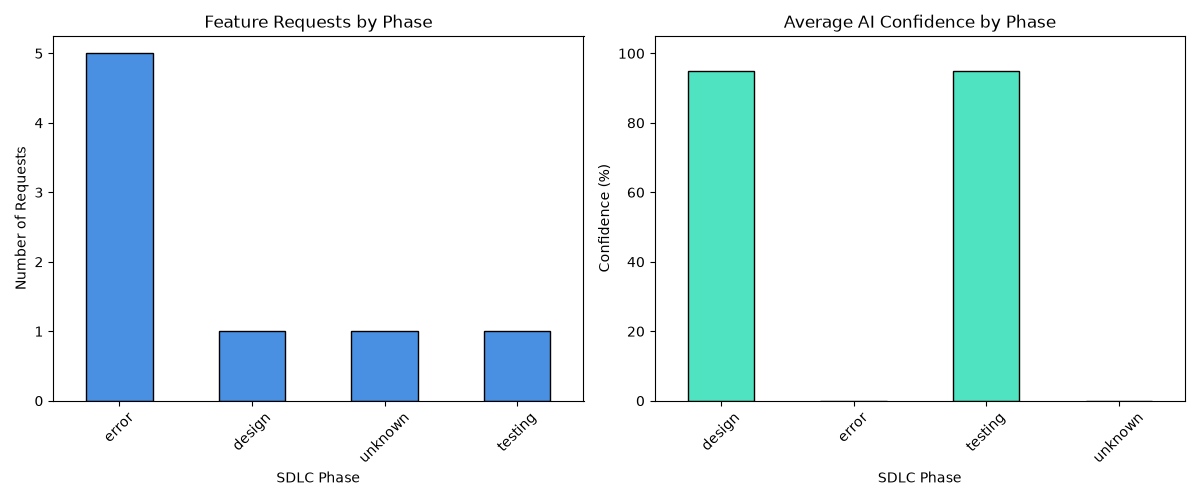
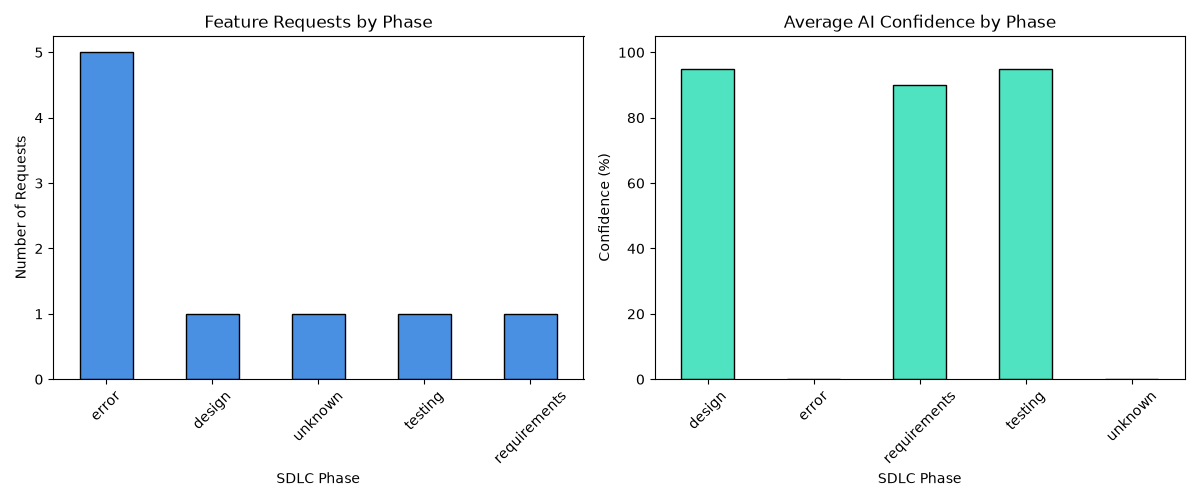
milestone10

diff --git a/main.py b/main.py
@@ -26,7 +26,10 @@ def main():
             requests = get_all_requests()
             print(f"\n--- Total Requests: {len(requests)} ---")
             for req in requests:
-                print(f"[{req['phase'].upper()}] {req['description'][:50]}... (Confidence: {req['confidence']}%)")
+                phase = req.get('phase', 'UNKNOWN').upper()
+                desc = req.get('description', 'No description available')[:50]
+                conf = req.get('confidence', '0')
+                print(f"[{phase}] {desc}... (Confidence: {conf}%)")
                 
         elif choice == '3':
             generate_dashboard()
